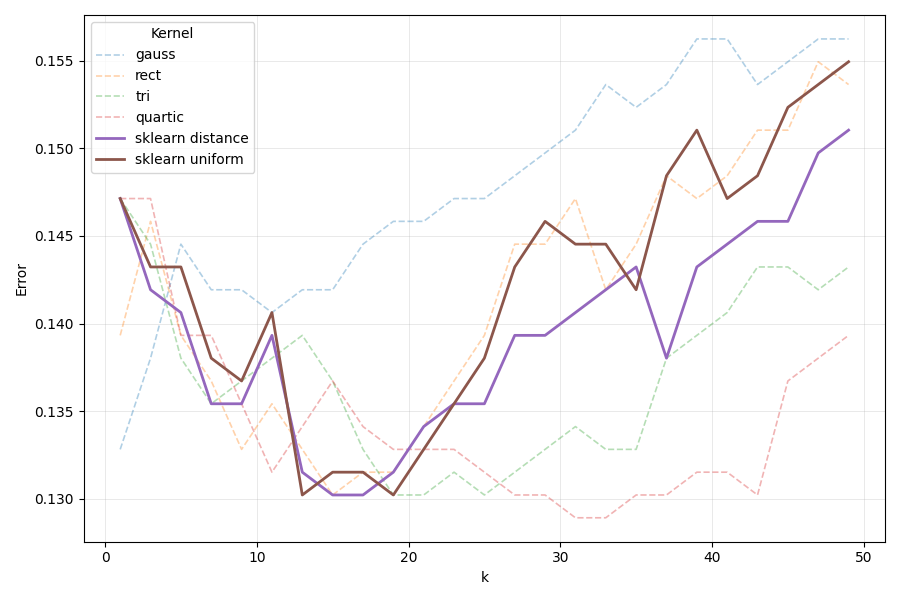
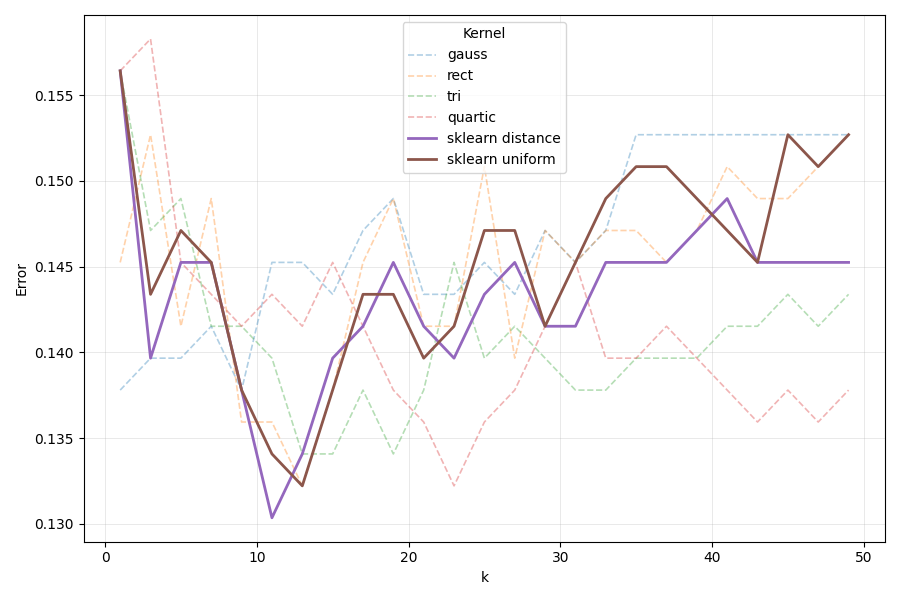
Add hold-out split for all experience

diff --git a/students/am-zaytsev/lab2/source/metric_model/main.py b/students/am-zaytsev/lab2/source/metric_model/main.py
@@ -21,6 +21,14 @@ def main():
     # Preprocess data
     X, y = dataset_module.preprocess_data(df)
 
+    # Hold-out test: fixed before any parameter search
+    idx = np.arange(X.shape[0])
+    train_idx, test_idx = train_test_split(
+        idx, test_size=0.3, random_state=42, stratify=y.argmax(axis=1)
+    )
+    X_train, y_train = X[train_idx], y[train_idx]
+    X_test, y_test = X[test_idx], y[test_idx]
+
     # K Search
     h_list = np.arange(1, 50, 2, dtype=np.int32)
     kernel_list = [
@@ -32,8 +40,8 @@ def main():
 
     search_params_list = list(product(h_list, kernel_list))
     res = loo(
-        X,
-        y,
+        X_train,
+        y_train,
         AdaptiveParzenKNN,
         model_params_list=search_params_list,
         progress_bar=True,
@@ -44,9 +52,9 @@ def main():
         f"Found best params: k: {best_k}, kernel: {best_kernel}. LOO = {round(best_loo, 2)}"
     )
     model = AdaptiveParzenKNN(best_k, best_kernel)
-    model.train(X, y)
-    acc = model.acc(X, y)
-    print("Acc:", acc)
+    model.train(X_train, y_train)
+    acc_full = model.acc(X_test, y_test)
+    print("Test acc:", acc_full)
     fig = draw_loo_res(res, {best_kernel})
     # fig.suptitle('Loss/k plot')
     fig.savefig("./images/choose_k")
@@ -56,8 +64,8 @@ def main():
     full_res = res.copy()
     weights_values = ["sklearn distance", "sklearn uniform"]
     sk_res = loo(
-        X,
-        y,
+        X_train,
+        y_train,
         SklearnKNN,
         model_params_list=list(product(h_list, weights_values)),
         progress_bar=True,
@@ -69,30 +77,25 @@ def main():
     )
 
     model = SklearnKNN(sk_best_k, sk_best_kernel)
-    model.train(X, y)
-    acc = model.acc(X, y)
-    print("Acc:", acc)
+    model.train(X_train, y_train)
+    acc_sk = model.acc(X_test, y_test)
+    print("Test acc:", acc_sk)
     fig = draw_loo_res(full_res, {sk_best_kernel} | set(weights_values))
     # fig.suptitle('Loss/k plot')
-    # fig.savefig("./images/compare_sklearn")
+    fig.savefig("./images/compare_sklearn")
 
     # Ref selection
-    idx = np.arange(X.shape[0])
-    train_idx, test_idx = train_test_split(
-        idx, test_size=0.3, random_state=42, stratify=y.argmax(axis=1)
-    )
-    X_train, y_train = X[train_idx], y[train_idx]
-    X_test, y_test = X[test_idx], y[test_idx]
-
     ref_mask = get_ref_mask(X_train, y_train[:, 1][:, np.newaxis])
     X_ref, y_ref = X_train[ref_mask], y_train[ref_mask]
 
-    res_ref = []
-    for params in search_params_list:
-        model = AdaptiveParzenKNN(*params)
-        model.train(X_ref, y_ref)
-        error_cnt = (model.predict_class(X_train) != y_train.argmax(axis=1)).mean()
-        res_ref.append([params, error_cnt])
+    res_ref = loo(
+        X_train,
+        y_train,
+        AdaptiveParzenKNN,
+        model_params_list=search_params_list,
+        mask=ref_mask,
+        progress_bar=True,
+    )
     # fig = draw_loo_res(res_ref, {best_kernel_ref})
 
     (best_k_ref, best_kernel_ref), best_loo_ref = min(res_ref, key=lambda x: x[1])
@@ -100,16 +103,23 @@ def main():
 
     model = AdaptiveParzenKNN(best_k_ref, best_kernel_ref)
     model.train(X_ref, y_ref)
-    acc = model.acc(X_test, y_test)
-    print("Acc:", acc)
+    acc_ref = model.acc(X_test, y_test)
+    print("Test acc:", acc_ref)
 
-    print("Full dataset:")
-    print("   -size:", X.shape[0])
+    print("Train (full model):")
+    print("   -size:", X_train.shape[0])
     print("   -loo:", round(my_best_loo, 4))
+    print("   -test acc:", round(acc_full, 4))
 
     print("Reference dataset:")
-    print("   -size:", ref_mask.sum(), f"({round(ref_mask.mean() * 100, 1)}%)")
+    print(
+        "   -size:",
+        ref_mask.sum(),
+        f"({round(ref_mask.mean() * 100, 1)}% of train)",
+    )
     print("   -loo:", round(best_loo_ref, 4))
+    print("   -test acc:", round(acc_ref, 4))
+    print("Test size:", X_test.shape[0])
 
     fig = draw_dataset(X_train, 1 - y_train, ref_mask)
     plt.savefig("./images/ref_dataset_plot.png", dpi=300, bbox_inches="tight")
@@ -125,11 +135,14 @@ def main():
             "h_best_sk": int(sk_best_k),
             "kernel_best_sk": sk_best_kernel,
             "llo_best_sk": round(float(sk_best_loo), 4),
-            "full_size": int(X.shape[0]),
-            "full_loo": round(float(my_best_loo), 4),
+            "acc_best_my": round(float(acc_full), 4),
+            "acc_best_sk": round(float(acc_sk), 4),
+            "n_train": int(X_train.shape[0]),
+            "n_test": int(X_test.shape[0]),
             "ref_size": int(ref_mask.sum()),
             "ref_size_percentage": round(float(ref_mask.mean()) * 100, 1),
             "ref_loo": round(float(best_loo_ref), 4),
+            "acc_ref": round(float(acc_ref), 4),
         }
     )
 

diff --git a/students/am-zaytsev/lab2/docs/template_README.md b/students/am-zaytsev/lab2/docs/template_README.md
@@ -19,9 +19,11 @@ $$dataset_desc$$
 
 ## Parameter search
 
+Внешний test (30%) отделён до подбора параметров, поэтому LOO считается только на train и не использует объекты будущего test.
+
 В лекции было сказано, что CCV не сильно зависит от размера разбиения. Поэтому я использовал LOO для подбора параметров ядра и ширины ядра
 
-Я посчитал LOO для каждой пары (ширина ядра, тип ядра) для адаптивного алгоритма Парзена
+Я посчитал LOO на train для каждой пары (ширина ядра, тип ядра) для адаптивного алгоритма Парзена
 
 ![](./images/choose_k.png)
 
@@ -30,28 +32,30 @@ $$dataset_desc$$
 - Kernel - $$kernel_best_my$$
 При таких параметрах LLO = $$llo_best_my$$
 
-Были выбраны именно такие параметры, тк график для ядра `$$kernel_best_my$$` имеет минимум ниже минимумов других ядер. Этот минимум находится при h = $$h_best_my$$
+Были выбраны именно такие параметры, тк график для ядра `$$kernel_best_my$$` имеет минимум не выше минимумов других ядер; этот минимум находится при h = $$h_best_my$$. Если несколько конфигураций дают одинаковый LOO, выбирается первая.
 
 ## scikit-learn compare
 Затем я сравнил свой лучший алгоритм с реализацией из sklearn. Я также попробовал 2 ядра `distance` и `uniform`. 
 ![](./images/compare_sklearn.png)
 
-Видно, что реализация scikit-learn с равномерным ядром (без учета расстояний) показывает результат лучше, чем мой текущий:
+Сравнение лучших конфигураций (LOO на train и точность на общем test):
 
 - h - $$h_best_sk$$
 - Kernel - $$kernel_best_sk$$
 
-При таких параметрах LLO = $$llo_best_sk$$
+При таких параметрах LLO (train) = $$llo_best_sk$$, точность на test = $$acc_best_sk$$.
 
 ## Reference search
 
 Для реализации алгоритма отбор эталонов я использовал жадный алгоритм исключения. Для этого я реализовал вычисление профиля компактности `train/ccv.py:21-30` и также CCV через профиль компактности `train/ccv.py:33-51`.
 
-Для поиска эталонов я сначала брал весь датасет и на каждом шаге искал такой элемент, убрав который получим минимальный CCV. Если же минимальный CCV будет больше текущего CCV, то останавливаемся.
+Для поиска эталонов я сначала брал весь train и на каждом шаге искал такой элемент, убрав который получим минимальный CCV. Если же минимальный CCV будет больше текущего CCV, то останавливаемся.
 
 Для оптимизированного подсчета изменение профиля компактности при m=1 была реализована функция `remove_row_set_compact_profile` `train/ccv.py:155-187`. В ней реализован кэширование матрицы расстояний и векторное вычисление вклада для каждого объекта.
 
 В `train/ref_selection.py` была реализована отбора эталонов по описанному ранее условию.
+
+Параметры эталонной модели подбираются LOO на train; при проверке объекта из эталонного набора он исключается из обучающей выборки (`mask=ref_mask`).
 
 В итоге получились следующие результаты
 
@@ -60,15 +64,25 @@ $$dataset_desc$$
 - Мелкие прозрачные круги - удаленные объекты
 - Большие четкие круги - выбранные эталоны
 
-|Название|Размер|LOO|
-|-|-|-|
-|Полный датасет|$$full_size$$|$$llo_best_my$$|
-|Эталонный датасет|$$ref_size$$ ($$ref_size_percentage$$%)|$$ref_loo$$|
+|Название|Размер|LOO (train)|Точность (test)|
+|-|-|-|-|
+|Полный train|$$n_train$$|$$llo_best_my$$|$$acc_best_my$$|
+|Эталонный датасет|$$ref_size$$ ($$ref_size_percentage$$% от train)|$$ref_loo$$|$$acc_ref$$|
 
-Метрика `$$ref_loo$$` посчитана на отложенной тестовой выборке, объекты которой не участвовали в отборе эталонов.
+LOO обеих моделей считается только на train; точность — на нетронутом test ($$n_test$$ объектов), который не участвовал ни в отборе эталонов, ни в подборе параметров.
+
+## Точность
+
+На нетронутом test ($$n_test$$ объектов): полная модель — $$acc_best_my$$, эталонная — $$acc_ref$$, sklearn — $$acc_best_sk$$.
+
+LOO эталонной модели ниже, но точность на test ниже: LOO считается на train, по которому отбирались эталоны, поэтому он оптимистичен.
 
 # Вывод
 
 Были выполнены все пункты задания лабораторной работы
 
-Эталонная реализация из scikit-learn имела LLO в `$$llo_best_sk$$`, моя реализация с отбором эталонов имеет LLO в `$$ref_loo$$`.
+Все параметры подбирались на train (LOO), а сравнение проводилось на одном и том же нетронутом test ($$n_test$$ объектов):
+
+- полная модель: LOO = $$llo_best_my$$, точность = $$acc_best_my$$;
+- эталонная модель: LOO = $$ref_loo$$, точность = $$acc_ref$$;
+- sklearn: LLO = $$llo_best_sk$$, точность = $$acc_best_sk$$.

diff --git a/students/am-zaytsev/lab2/README.md b/students/am-zaytsev/lab2/README.md
@@ -22,39 +22,43 @@
 
 ## Parameter search
 
+Внешний test (30%) отделён до подбора параметров, поэтому LOO считается только на train и не использует объекты будущего test.
+
 В лекции было сказано, что CCV не сильно зависит от размера разбиения. Поэтому я использовал LOO для подбора параметров ядра и ширины ядра
 
-Я посчитал LOO для каждой пары (ширина ядра, тип ядра) для адаптивного алгоритма Парзена
+Я посчитал LOO на train для каждой пары (ширина ядра, тип ядра) для адаптивного алгоритма Парзена
 
 ![](./images/choose_k.png)
 
 Самым лучшим оказались параметры 
-- h - 31
-- Kernel - quartic
-При таких параметрах LLO = 0.1289
+- h - 13
+- Kernel - rect
+При таких параметрах LLO = 0.1322
 
-Были выбраны именно такие параметры, тк график для ядра `quartic` имеет минимум ниже минимумов других ядер. Этот минимум находится при h = 31
+Были выбраны именно такие параметры, тк график для ядра `rect` имеет минимум не выше минимумов других ядер; этот минимум находится при h = 13. Если несколько конфигураций дают одинаковый LOO, выбирается первая.
 
 ## scikit-learn compare
 Затем я сравнил свой лучший алгоритм с реализацией из sklearn. Я также попробовал 2 ядра `distance` и `uniform`. 
 ![](./images/compare_sklearn.png)
 
-Видно, что реализация scikit-learn с равномерным ядром (без учета расстояний) показывает результат лучше, чем мой текущий:
+Сравнение лучших конфигураций (LOO на train и точность на общем test):
 
-- h - 13
-- Kernel - sklearn uniform
+- h - 11
+- Kernel - sklearn distance
 
-При таких параметрах LLO = 0.1302
+При таких параметрах LLO (train) = 0.1304, точность на test = 0.8615.
 
 ## Reference search
 
 Для реализации алгоритма отбор эталонов я использовал жадный алгоритм исключения. Для этого я реализовал вычисление профиля компактности `train/ccv.py:21-30` и также CCV через профиль компактности `train/ccv.py:33-51`.
 
-Для поиска эталонов я сначала брал весь датасет и на каждом шаге искал такой элемент, убрав который получим минимальный CCV. Если же минимальный CCV будет больше текущего CCV, то останавливаемся.
+Для поиска эталонов я сначала брал весь train и на каждом шаге искал такой элемент, убрав который получим минимальный CCV. Если же минимальный CCV будет больше текущего CCV, то останавливаемся.
 
 Для оптимизированного подсчета изменение профиля компактности при m=1 была реализована функция `remove_row_set_compact_profile` `train/ccv.py:155-187`. В ней реализован кэширование матрицы расстояний и векторное вычисление вклада для каждого объекта.
 
 В `train/ref_selection.py` была реализована отбора эталонов по описанному ранее условию.
+
+Параметры эталонной модели подбираются LOO на train; при проверке объекта из эталонного набора он исключается из обучающей выборки (`mask=ref_mask`).
 
 В итоге получились следующие результаты
 
@@ -63,17 +67,25 @@
 - Мелкие прозрачные круги - удаленные объекты
 - Большие четкие круги - выбранные эталоны
 
-|Название|Размер|LOO|
-|-|-|-|
-|Полный датасет|768|0.1289|
-|Эталонный датасет|59 (11.0%)|0.0596|
+|Название|Размер|LOO (train)|Точность (test)|
+|-|-|-|-|
+|Полный train|537|0.1322|0.8571|
+|Эталонный датасет|59 (11.0% от train)|0.0708|0.8268|
 
-Метрика `0.0596` посчитана на отложенной тестовой выборке, объекты которой не участвовали в отборе эталонов.
+LOO обеих моделей считается только на train; точность — на нетронутом test (231 объектов), который не участвовал ни в отборе эталонов, ни в подборе параметров.
 
-Точность
+## Точность
+
+На нетронутом test (231 объектов): полная модель — 0.8571, эталонная — 0.8268, sklearn — 0.8615.
+
+LOO эталонной модели ниже, но точность на test ниже: LOO считается на train, по которому отбирались эталоны, поэтому он оптимистичен.
 
 # Вывод
 
 Были выполнены все пункты задания лабораторной работы
 
-Эталонная реализация из scikit-learn имела LLO в `0.1302`, моя реализация с отбором эталонов имеет LLO в `0.0596`.
+Все параметры подбирались на train (LOO), а сравнение проводилось на одном и том же нетронутом test (231 объектов):
+
+- полная модель: LOO = 0.1322, точность = 0.8571;
+- эталонная модель: LOO = 0.0708, точность = 0.8268;
+- sklearn: LLO = 0.1304, точность = 0.8615.
